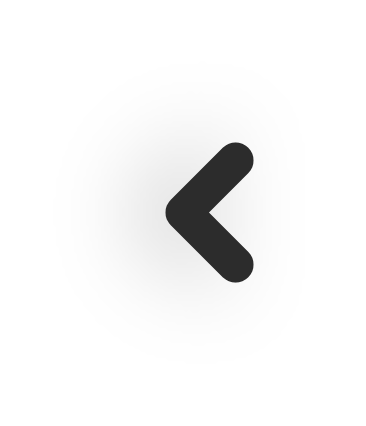
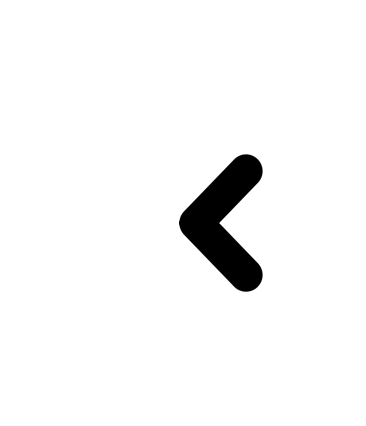
arrow fixed, tried btn scale

Changed region(s): [[0.4508, 0.3357, 0.7213, 0.7019]]

diff --git a/FloatingMenu/components/FloatingMenu/index.js b/FloatingMenu/components/FloatingMenu/index.js
@@ -287,19 +287,7 @@ class FloatingMenu extends React.PureComponent {
     //const backgroundColor = isinLongPress ? 'white' : primaryColor;
     const backgroundColor = primaryColor;
 
-
-    // const backgroundColor = this.gradientBackgroundColor.interpolate({
-    //     inputRange: [0, 30, 60, 90, 120, 150, 180],
-    //     outputRange: [
-    //       '#d12b51',
-    //       '#0081d1',
-    //       '#6fa229',
-    //       '#939598',
-    //       '#fca500',
-    //       '#b15de6',
-    //       '#d12b51'
-    //     ],
-    //   });
+    this.buttonSizeAnimated = new Animated.Value(Design.buttonWidth);
 
     const content = renderMenuIcon ? (
       renderMenuIcon({ ...this.state })
@@ -314,6 +302,28 @@ class FloatingMenu extends React.PureComponent {
         {isOpen ? '' : ''}
       </Text>
     );
+
+    //Animate button size
+    const onSpringCompletion = () => {
+        this.spring();
+      }
+
+    const spring = () => {
+            this.buttonSizeAnimated.setValue(Design.buttonWidth);
+            Animated.spring(
+                this.buttonSizeAnimated,
+                {
+                  useNativeDriver: false,
+                    toValue: 1,
+                    friction: 1,
+                    tension: 1,
+                    duration:5000
+
+                }
+            ).start(this.onSpringCompletion);
+        }
+
+      spring();
 
     return (
       <View
@@ -334,7 +344,7 @@ class FloatingMenu extends React.PureComponent {
           <Animated.View
             style={[
               globalStyles.buttonInner,
-              applyButtonWidth(innerWidth),
+              applyButtonWidth(Design.buttonWidth),
               {backgroundColor}
             ]}
           >
